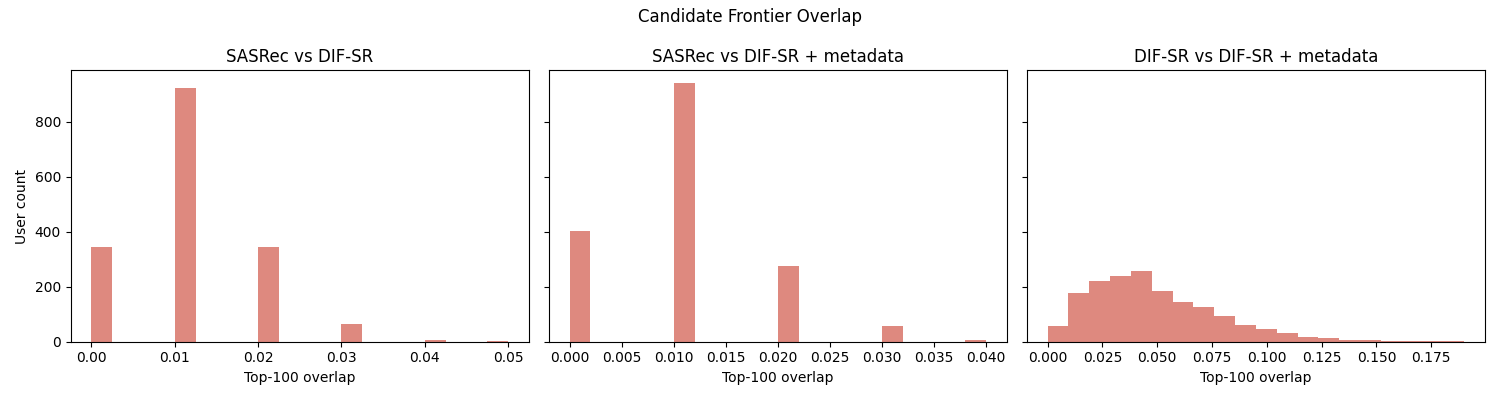
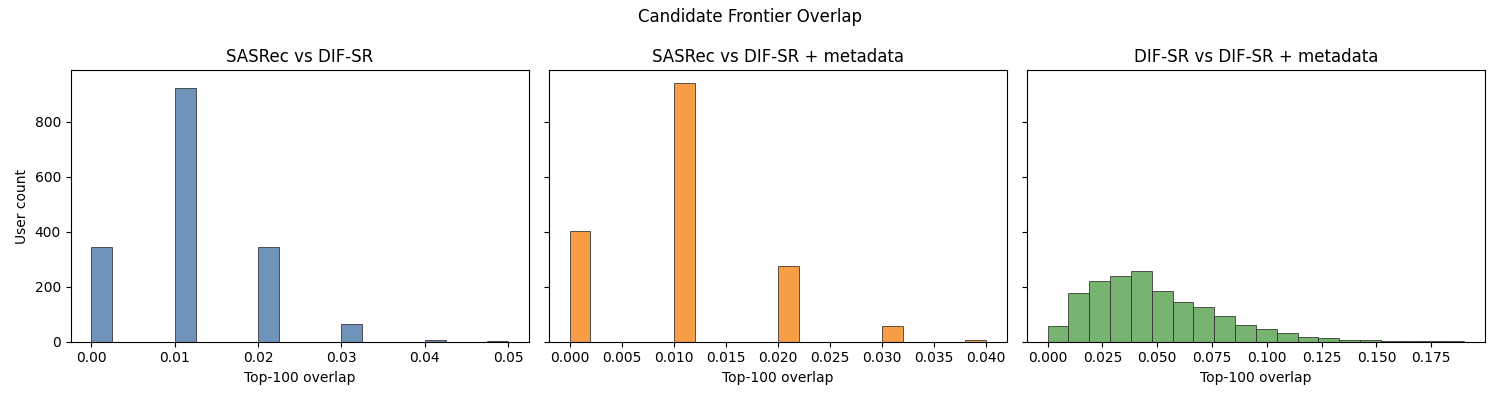
docs: add candidate frontier interpretation

diff --git a/analysis/candidate_overlap.py b/analysis/candidate_overlap.py
@@ -13,6 +13,12 @@ PAIR_ORDER = [
     ("DIF-SR", "DIF-SR + metadata"),
 ]
 
+PAIR_COLORS = {
+    "SASRec vs DIF-SR": "#4C78A8",
+    "SASRec vs DIF-SR + metadata": "#F58518",
+    "DIF-SR vs DIF-SR + metadata": "#54A24B",
+}
+
 
 def compute_pair_overlap(left: pd.DataFrame, right: pd.DataFrame, label_left: str, label_right: str):
     merged = left[["source_user_id", "category_entropy_bucket", "top100_items"]].merge(
@@ -33,7 +39,14 @@ def render_overlap_histograms(overlap_frame: pd.DataFrame, output_path: Path):
     for ax, (left, right) in zip(axes, PAIR_ORDER):
         pair_name = f"{left} vs {right}"
         values = overlap_frame.loc[overlap_frame["pair"] == pair_name, "overlap"]
-        ax.hist(values, bins=20, color="#d66c5f", alpha=0.8)
+        ax.hist(
+            values,
+            bins=20,
+            color=PAIR_COLORS[pair_name],
+            alpha=0.8,
+            edgecolor="#2f2f2f",
+            linewidth=0.7,
+        )
         ax.set_title(pair_name)
         ax.set_xlabel("Top-100 overlap")
     axes[0].set_ylabel("User count")

diff --git a/README.md b/README.md
@@ -98,6 +98,20 @@ Sanity check 이후 causal masking을 복구하고, epoch 수, sequence length, 
 | `DIF-SR` | Intent-aware backbone | intent-aware sequential recommender |
 | `DIF-SR + Metadata` | Intent-aware + metadata | item metadata embedding을 결합한 DIF-SR |
 
+## Candidate Frontier and Metadata Heads
+
+Candidate stage에서는 multi-source channel 기준 `candidate recall@100`이 대체로 `0.295 ~ 0.298` 수준으로 유지되었습니다.
+
+Metadata head를 추가하면 candidate recall이 개선되었고, 특히 `product_type` head가 가장 안정적으로 좋은 성능을 보였습니다.
+
+이 변화가 단순 reranking이 아니라 candidate frontier 자체의 변화를 동반하는지 보기 위해 top-100 overlap distribution도 함께 확인했습니다.
+
+이 figure는 모델 변경이 비슷한 후보를 다시 정렬하는 수준인지, 아니면 추천 후보군 자체를 바꾸는지를 보여줍니다. overlap이 낮을수록 candidate frontier change가 더 크다는 뜻입니다.
+
+<img src="plots/candidate_overlap_histogram.png" alt="Candidate overlap histogram" width="720" />
+
+**한 줄 해석:** metadata와 intent-aware backbone은 accuracy뿐 아니라 추천 후보군 자체를 바꾸는 방향으로 작동했습니다.
+
 ## Canonical Evaluation (Primary Artifact)
 
 연구용 비교는 confounding factor를 줄인 clean evaluation setting을 기준으로 정리했습니다.
